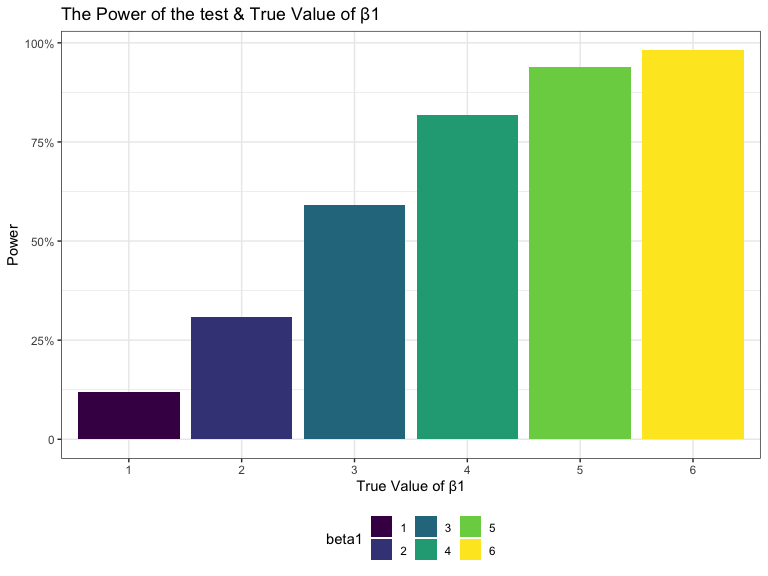
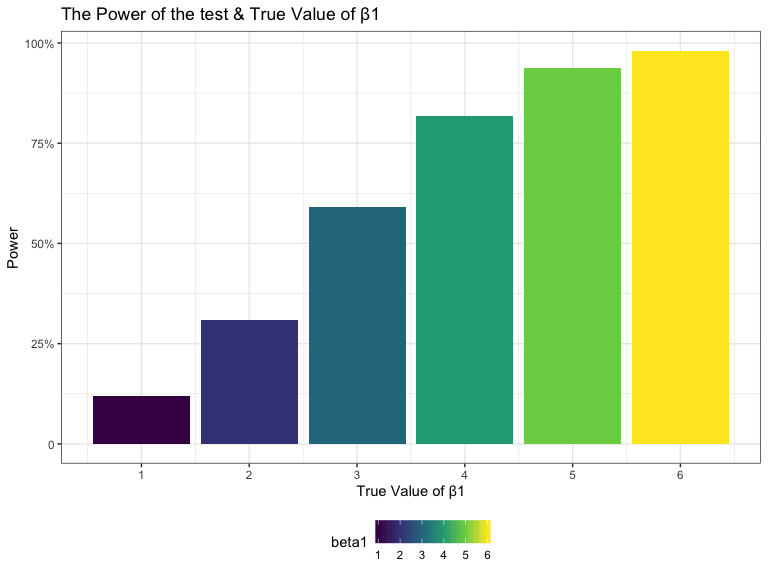
revise the interpretation of probelm 3 plot 2

diff --git a/p8105_hw5_rw2708.md b/p8105_hw5_rw2708.md
@@ -162,9 +162,6 @@ sim_results =
 plot1 = sim_results %>% 
   mutate(reject_null=case_when(p_value < 0.05 ~ "true",
                                TRUE ~ "false")) %>%
-  #convert the true beta1 as factor for plotting
-  mutate(beta1 = as.factor(beta1),
-         beta1 = forcats::fct_relevel(beta1,c("1","2","3","4","5","6"))) %>% 
   #calculate the power at each level of true beta 1
   group_by(beta1, reject_null) %>% 
   summarize(power = n()/10000) %>% 
@@ -177,7 +174,7 @@ plot1 = sim_results %>%
     x = "True Value of β1",
     y = "Power"
     ) +
-    scale_x_discrete(
+    scale_x_continuous(
     # alteration for x-axis labels 
     breaks = c(0, 1, 2, 3, 4, 5, 6),
     labels = c("0", "1", "2", "3", "4", "5", "6")) +
@@ -246,14 +243,15 @@ plot2
 
 As shown in the graph, the sample average estimate of beta 1 across
 tests for which the null is rejected is not equal to the true value of
-beta 1. When the true value of beta 1 is relatively small such as 1,and
-2, the sample average estimate of beta 1 across tests for which the null
-is rejected is far above the true value of beta 1. But the difference
-decreases as the true value of beta 1 gets bigger. The reason for this
-is that since the null hypothesis test is beta 1 equals to 0, so that as
-the value of beta 1 in alternative hypothesis gets larger (away from the
-0) we would have higher probability to reject the null hypothesis. That
-is to say, at the true value of beta 1 of 6, almost all samples shows
-the result of reject the null hypothesis, so the sample average estimate
-of beta 1 across tests for which the null is rejected is very close to
-the true value of beta 1.
+beta 1, especially when the true value of beta 1 is relatively small
+such as 1 and 2, where the sample average estimate of beta 1 across
+tests for which the null is rejected is far above the true value of beta
+1, but the difference decreases as the true value of beta 1 gets bigger.
+
+The reason for this is that since the null hypothesis test is beta 1 =
+0, so that as the value of beta 1 in alternative hypothesis gets larger
+(away from the 0) we would have higher probability to reject the null
+hypothesis. That is to say, when the true value of beta 1 is 6, almost
+all samples contains the result of rejection to the null hypothesis, so
+the sample average estimate of beta 1 across tests for which the null is
+rejected is very close to the true value of beta 1.
